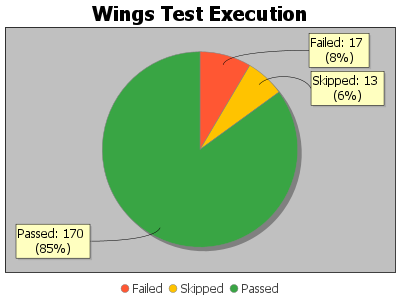
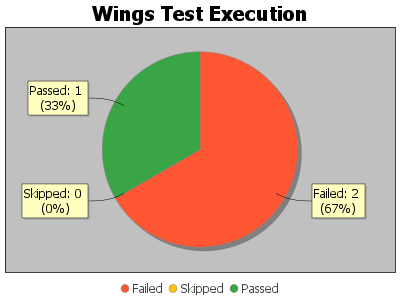
[Madhuri] updations

Changed region(s): [[0.03, 0.09, 0.96, 0.87], [0.06, 0.24, 0.24, 0.39], [0.27, 0.33, 0.3, 0.36]]

diff --git a/src/main/java/com/wings/pages/MasterConfig.java b/src/main/java/com/wings/pages/MasterConfig.java
@@ -1,0 +1,172 @@
+package com.wings.pages;
+
+import com.wings.utils.Common;
+import io.appium.java_client.windows.WindowsDriver;
+import org.json.simple.parser.ParseException;
+import org.openqa.selenium.WebElement;
+import org.openqa.selenium.interactions.Actions;
+import org.testng.Assert;
+import java.awt.*;
+import java.awt.event.KeyEvent;
+import java.io.IOException;
+import java.util.List;
+
+public class MasterConfig {
+    WindowsDriver driver;
+    Common common;
+    String dataFile;
+
+    public MasterConfig(WindowsDriver driver, String file) {
+        this.driver = driver;
+        common = new Common(this.driver);
+        dataFile = file;
+    }
+
+    public String newCustomer() throws InterruptedException, IOException, ParseException, AWTException {
+        common.clickElement("name", "Sales");
+        common.clickElement("name", "Customers");
+        Thread.sleep(3000);
+        WebElement allCustomer = common.findWebElement("xpath", "//TreeItem[@Name='Customers']/TreeItem[@Name='All Customers']");
+        Actions actions = new Actions(driver);
+        actions.contextClick(allCustomer).perform();
+        common.clickElement("name", "New Master");
+        Thread.sleep(3500);
+        common.inputText("xpath", "//Edit[@Name='New Account *']", common.getData(dataFile, "newAccount"));
+        WebElement element = common.findWebElement("xpath", "//Edit[@Name='New Account *']");
+        common.inputText("xpath", "//Edit[@Name='Account Code']", "" + common.getRandom());
+        common.inputText("xpath", "//Edit[@Name='Description']", common.getData(dataFile, "description"));
+        common.clickElement("xpath", "//Pane[@Name='Bank Details']/Button[@Name='...']");
+        Thread.sleep(1200);
+        common.inputAndVerify("xpath", "//Window[@Name='Bank Details']/Pane/Pane/Edit[@Name='Account No']", common.getData(dataFile, "AccNo"));
+        common.inputAndVerify("xpath", "//Window[@Name='Bank Details']/Pane/Pane/Edit[@Name='Bank']", common.getData(dataFile, "Bank"));
+        common.inputAndVerify("xpath", "//Window[@Name='Bank Details']/Pane/Pane/Edit[@Name='Bank Branch']", common.getData(dataFile, "BankBranch"));
+        common.inputAndVerify("xpath", "//Window[@Name='Bank Details']/Pane/Pane/Edit[@Name='IFSC Code']", common.getData(dataFile, "IFSC"));
+        common.clickElement("name", "Ok");
+        //DD's
+        common.clickElement("xpath", "//Edit[@Name='Executive']/Button[@Name='Open']");
+        common.rowDropDown(common.getData(dataFile, "Executive"));
+        Thread.sleep(500);
+        common.clickElement("xpath", "//Edit[@Name='Route']/Button[@Name='Open']");
+        common.rowDropDown(common.getData(dataFile, "Route"));
+        Thread.sleep(500);
+        common.clickElement("xpath", "//Edit[@Name='Purchase Price List']/Button[@Name='Open']");
+        common.rowDropDown(common.getData(dataFile, "priceList"));
+        Thread.sleep(500);
+        common.clickElement("xpath", "//Edit[@Name='Transport']/Button[@Name='Open']");
+        common.rowDropDown(common.getData(dataFile, "transport"));
+        Thread.sleep(500);
+        common.clickElement("xpath", "//Edit[@Name='Transporter']/Button[@Name='Open']");
+        common.rowDropDown(common.getData(dataFile, "transporter"));
+        Thread.sleep(500);
+        common.clickElement("xpath", "//Edit[@Name='Type Of Customer']/Button[@Name='Open']");
+        common.rowDropDown("Type of Customer");
+        common.sliderHandling("xpath", "//*/Thumb[@Name='Position']", 0, 190);
+        common.clickElement("xpath", "//Pane[@Name='Registration']/Button[@Name='...']");
+        Thread.sleep(500);
+        common.inputText("xpath", "//Window[@Name='Registration']/Pane/Pane/Edit[@Name='Party Reg Type *']", "registered");
+        Thread.sleep(500);
+        Robot robot = new Robot();
+        robot.keyPress(KeyEvent.VK_DOWN);
+        robot.keyRelease(KeyEvent.VK_DOWN);
+        robot.keyPress(KeyEvent.VK_DOWN);
+        robot.keyRelease(KeyEvent.VK_DOWN);
+        robot.keyPress(KeyEvent.VK_ENTER);
+        robot.keyRelease(KeyEvent.VK_ENTER);
+        common.inputText("xpath", "//Edit[@Name='GSTIN']", common.getData(dataFile, "gst"));
+        common.clickElement("xpath", "//Edit[@Name='PAN']");
+        common.clickElement("xpath", "//Button[@Name='Verify GSTIN']");
+        robot.keyPress(KeyEvent.VK_ESCAPE);
+        robot.keyRelease(KeyEvent.VK_ESCAPE);
+        common.clickElement("name", "Ok");
+        Thread.sleep(3000);
+        //scroll down
+        common.sliderHandling("name", "Position", 0, 450);
+        common.clickElement("xpath", "//Pane/Pane[@Name='Contact Details']/Button[@Name='...']");
+        Thread.sleep(2000);
+        common.inputAndVerify("xpath", "//Edit[@Name='Telephones 1']", common.getData(dataFile, "tel1"));
+        common.inputAndVerify("xpath", "//Edit[@Name='Fax']", common.getData(dataFile, "fax"));
+        common.inputAndVerify("xpath", "//Edit[@Name='Email']", common.getData(dataFile, "email"));
+        common.inputAndVerify("xpath", "//Edit[@Name='Website']", common.getData(dataFile, "website"));
+        common.inputAndVerify("xpath", "//Edit[@Name='Contact Person']", common.getData(dataFile, "cp"));
+        common.inputAndVerify("xpath", "//Edit[@Name='Contact Person Designation']", common.getData(dataFile, "cpd"));
+        common.inputAndVerify("xpath", "//Edit[@Name='Contact Person Telephone No']", common.getData(dataFile, "cptn"));
+        common.inputAndVerify("xpath", "//Edit[@Name='Contact Person Mobile No']", common.getData(dataFile, "cpmn"));
+        common.inputAndVerify("xpath", "//Edit[@Name='Contact Person Email']", common.getData(dataFile, "cpe"));
+        common.clickElement("name", "Ok");
+        common.clickElement("xpath", "//Pane/Button[@Name='Save']");
+        Thread.sleep(1000);
+        common.clickElement("xpath", "//Window/Button[@Name='OK']");
+        Thread.sleep(1000);
+        common.clickElement("xpath", "//Pane/Button[@Name='Cancel']");
+
+        common.clickElement("xpath", "//TabItem[@Name='Customers']/Button[@Name='Close']");
+
+        //refresh
+        common.clickElement("xpath", "//MenuItem[@Name='Tools']");
+        common.clickElement("xpath", "//MenuItem[@Name='Clear Cache']");
+
+        return common.getData(dataFile, "newAccount");
+    }
+
+    public void customerRename(String customerName) throws InterruptedException, IOException, ParseException, AWTException {
+        common.clickElement("name", "Sales");
+        common.clickElement("name", "Customers");
+        Thread.sleep(2500);
+        common.clickElement("xpath", "//TreeItem[@Name='All Customers']");
+        // First loop: Check for the customer and perform actions
+        List<WebElement> listElements = common.findWebElements("xpath", "//Pane[@Name='Customers']/Pane/Pane/Pane/Pane/Pane/List/ListItem");
+        System.out.println("Size of elements under List: " + listElements.size());
+        boolean customerFound = false; // Flag to check if the customer was found
+        for (int i = 0; i < listElements.size(); i++) {
+            WebElement element = listElements.get(i);
+            System.out.println("Element Text: " + element.getText());
+            if (element.getText().equals(customerName)) {
+                System.out.println("Master is created successfully");
+                // Perform actions on the element
+                Actions actions = new Actions(driver);
+                actions.contextClick(element).perform();
+                common.clickElement("xpath", "//MenuItem[@Name='Change']");
+                common.clickElement("xpath", "//MenuItem[@Name='Name']");
+                common.inputText("xpath", "//Edit[@Name='New Name']", common.getData(dataFile, "newName"));
+                common.clickElement("xpath", "//Button[@Name='OK']");
+                common.clickElement("xpath", "//Button[@Name='OK']");
+                customerFound = true; // Set flag to true when the customer is found
+                break;  // Exit the loop once the desired element is found and processed
+            }
+        }
+        // Fail the test if no matching customer was found
+        if (!customerFound) {
+            Assert.fail("Created Master is not present");
+        }
+        // Close the current customer view and navigate to the customers section again
+        common.clickElement("xpath", "//TabItem[@Name='Customers']/Button[@Name='Close']");
+        Thread.sleep(1500);
+        common.clickElement("name", "Sales");
+        common.clickElement("name", "Customers");
+        Thread.sleep(2500);
+        common.clickElement("xpath", "//TreeItem[@Name='All Customers']");
+        // Second loop: Verify the renamed master
+        List<WebElement> listElements1 = common.findWebElements("xpath", "//Pane[@Name='Customers']/Pane/Pane/Pane/Pane/Pane/List/ListItem");
+        System.out.println("Size of elements after rename: " + listElements1.size());
+        boolean renamedCustomerFound = false; // Flag to check if the renamed customer was found
+
+        for (int i = 0; i < listElements1.size(); i++) {
+            WebElement element1 = listElements1.get(i);
+            System.out.println("Element Text: " + element1.getText());
+            // Check if the new name matches
+            if (element1.getText().equals(common.getData(dataFile, "newName"))) {
+                System.out.println("Master Renamed Successfully");
+                renamedCustomerFound = true; // Set flag to true when the renamed customer is found
+                break;  // Exit the loop once the renamed customer is found
+            }
+        }
+        // Fail the test if no renamed customer was found
+        if (!renamedCustomerFound) {
+            Assert.fail("Renamed Master is not present after the update");
+        }
+    }
+
+    public void masterActive(){
+
+    }
+}

diff --git a/src/main/java/com/wings/utils/XMLUtil.java b/src/main/java/com/wings/utils/XMLUtil.java
@@ -112,7 +112,7 @@ public class XMLUtil {
                 for (int j = testMethodTags.getLength() - 1; j >= 0; j--) {
                     Element testMethodElement = (Element) testMethodTags.item(j);
                     String signature = testMethodElement.getAttribute("signature");
-                    System.out.println(signature + " signature for example");
+//                    System.out.println(signature + " signature for example");
 
                     if (!signature.contains("afterTest()")) {
                         requiredTestMethod = testMethodElement;
@@ -173,7 +173,7 @@ public class XMLUtil {
         // Send email with report attached
         final String fromEmail = "productupdates@wingsinfo.net";
         final String password = "Zuy97283";
-        final String toEmail = "vikas.empuluri@wingsinfo.net,madhuri.matta@wingsinfo.net";//,manoj.c@wingsinfo.net,ashokreddy.rs@wingsinfo.net,sudheer.s@wingsinfo.net,venkatarathaiah.m@wingsinfo.net";
+        final String toEmail = "vikas.empuluri@wingsinfo.net,madhuri.matta@wingsinfo.net";//,manoj.c@wingsinfo.net";//,ashokreddy.rs@wingsinfo.net,sudheer.s@wingsinfo.net,venkatarathaiah.m@wingsinfo.net";
 
         Properties props = new Properties();
         props.put("mail.smtp.host", "smtp.office365.com");
@@ -194,7 +194,7 @@ public class XMLUtil {
     public static void main(String[] args) {
         XMLUtil xmlUtil = new XMLUtil();
         try {
-            xmlUtil.readTestNG("./TestNG/MenuItems/salesInvoicesTestCases.xml");// Parse bothSuite.xml and testng-results.xml
+            xmlUtil.readTestNG("./TestNG/MenuItems/regressionNew.xml");// Parse bothSuite.xml and testng-results.xml
             xmlUtil.readTestNGResults("./target/surefire-reports/testng-results.xml"); // Process test results and send email
         } catch (Exception e) {
             e.printStackTrace();

diff --git a/src/test/java/com/wings/tests/NodeCreationExec.java b/src/test/java/com/wings/tests/NodeCreationExec.java
@@ -1,0 +1,35 @@
+package com.wings.tests;
+
+import com.wings.pages.AppLogin;
+import com.wings.pages.MasterConfig;
+import io.appium.java_client.windows.WindowsDriver;
+import org.json.simple.parser.ParseException;
+import org.testng.annotations.AfterTest;
+import org.testng.annotations.BeforeTest;
+import org.testng.annotations.Test;
+import java.awt.*;
+import java.io.IOException;
+
+public class NodeCreationExec {
+        WindowsDriver driver;
+        AppLogin appLogin = new AppLogin();
+        String dataFile="./src/main/resources/masterConfig.json";
+
+        @BeforeTest
+        public void beforeTest() throws IOException, InterruptedException, ParseException {
+            driver = appLogin.launchSingleUserApp();
+            appLogin.singleUserLogin();
+        }
+
+        @Test
+        public void newNode() throws InterruptedException, IOException, ParseException, AWTException {
+            MasterConfig config =new MasterConfig(driver,dataFile);
+            String createdCustomer=config.newCustomer();
+            config.customerRename(createdCustomer);
+        }
+
+        @AfterTest
+        public void afterTest() throws IOException {
+            appLogin.logout();
+        }
+    }

diff --git a/src/main/java/com/wings/pages/Transaction.java b/src/main/java/com/wings/pages/Transaction.java
@@ -1683,16 +1683,4 @@ public abstract class Transaction {
         }
         System.out.println("Transaction is Deleted Successfully");
     }
-
-    public void deleteTransaction(String locator,String voucherLocatorType,String closeTransaction) throws InterruptedException {
-        common.clickElement(locator,voucherLocatorType);
-        common.clickElement("xpath","//Button[@Name='View']");
-        Thread.sleep(2500);
-        common.clickElement("xpath","//Button[@Name='Tools']");
-        common.clickElement("xpath","//Button[@Name='Delete']");
-        common.clickElement("xpath","//Button[@Name='Yes']");
-        common.clickElement("xpath","//Button[@Name='OK']");
-        common.clickElement("xpath","//Window[@Name='Close']/Button[@Name='Yes']");
-        closeTransaction(closeTransaction);
-    }
 }

diff --git a/src/main/java/com/wings/utils/EmailUtil.java b/src/main/java/com/wings/utils/EmailUtil.java
@@ -48,7 +48,7 @@ public class EmailUtil {
             msg.setFrom(new InternetAddress("productupdates@wingsinfo.net", "NoReply-QA"));
             //msg.setReplyTo(InternetAddress.parse("no_reply@example.com", false));
 
-            msg.setSubject("few TestCases are Skipped because WindowsDriver connection refused", "UTF-8");
+            msg.setSubject("Sales Invoices Test Cases", "UTF-8");
             //Wings Test Automation Reports
             //msg.setText(body, "UTF-8");
             msg.setContent(multipart);

diff --git a/src/main/java/com/wings/utils/PieChartGenerator.java b/src/main/java/com/wings/utils/PieChartGenerator.java
@@ -16,7 +16,7 @@ public class PieChartGenerator {
     public String generatePieChart(int passedCount, int failedCount, int skippedCount) {
         // Define variables for pie chart data
         String[] categories = {"Failed", "Skipped", "Passed"};
-        double[] values = {17, 13, 170};
+        double[] values = {failedCount, skippedCount, passedCount};
 
         // Define HTML color codes for each category
         String[] htmlColors = {"#FF5733", "#FFC300", "#39A544"};
